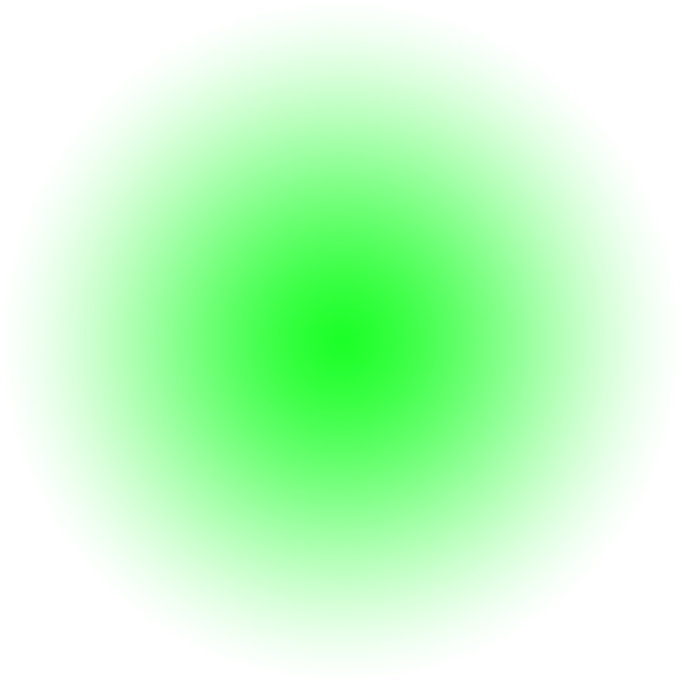
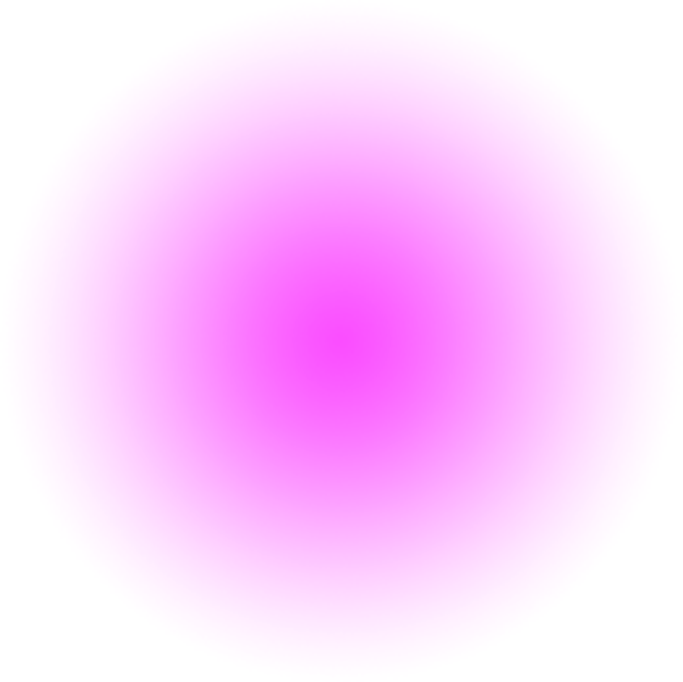
Added opacity change on glow

diff --git a/src/client/reducers/game.js b/src/client/reducers/game.js
@@ -47,6 +47,8 @@ const initialState = {
     y: null
   },
 
+  glowOpacity: 0,
+
   gliphIndex: 0,
 
   corners: range(0, 4).map(number => ({
@@ -133,15 +135,20 @@ const boxPhase = (state, action) => {
   }
 };
 
-const reachedGliph = (state) => {
+const gliphDistance = (state) => {
   const { glowCoords, gliphIndex } = state;
 
-  const isGliphReached = Math.sqrt(
+  return Math.sqrt(
     Math.pow(glowCoords.x - gliphCoords[gliphIndex].x, 2) +
     Math.pow(glowCoords.y - gliphCoords[gliphIndex].y, 2)
-  ) < 100;
+  );
+};
 
-  const collectedAllGliphs = reachedGliph &&
+const reachedGliph = (state) => {
+  const { gliphIndex } = state;
+  const isGliphReached = gliphDistance(state) < 25;
+
+  const collectedAllGliphs = isGliphReached &&
     gliphIndex === gliphCoords.length - 1;
 
   return {
@@ -150,6 +157,10 @@ const reachedGliph = (state) => {
     phase: collectedAllGliphs ? phases.CATCH : state.phase,
     gliphIndex: isGliphReached ? state.gliphIndex + 1 : state.gliphIndex,
   };
+};
+
+const getGlowOpacity = (state) => {
+  return (400 - gliphDistance(state)) / 400;
 };
 
 const soundPhase = (state, action) => {
@@ -162,6 +173,7 @@ const soundPhase = (state, action) => {
           return reachedGliph({
             ...state,
             glowCoords: clone(coords),
+            glowOpacity: getGlowOpacity(state),
           });
 
         default:

diff --git a/src/client/components/App/App.js b/src/client/components/App/App.js
@@ -26,6 +26,8 @@ class App extends Component {
     smashClicks: PropTypes.number.isRequired,
     inventory: PropTypes.array.isRequired,
     glowCoords: PropTypes.object.isRequired,
+    glowOpacity: PropTypes.number.isRequired,
+    gliphIndex: PropTypes.number.isRequired,
   }
 
   click(options, e) {
@@ -55,7 +57,9 @@ class App extends Component {
       corners,
       smashClicks,
       boxCenterClicked,
-      glowCoords
+      glowCoords,
+      glowOpacity,
+      gliphIndex,
     } = this.props;
 
     return (
@@ -104,6 +108,8 @@ class App extends Component {
                 style = {{
                   left: glowCoords.x,
                   top: glowCoords.y,
+                  opacity: glowOpacity,
+                  backgroundImage: `url(${require(`./box/glow-0${gliphIndex + 1}.png`)})`
                 }}
               />
             }
@@ -181,6 +187,8 @@ export default connect(
     phase: state.phase,
     smashClicks: state.smashClicks,
     glowCoords: state.glowCoords,
+    glowOpacity: state.glowOpacity,
+    gliphIndex: state.gliphIndex,
     inventory: state.inventory,
     boxCenterClicked: state.boxCenterClicked,
   }),

diff --git a/src/client/components/App/App.scss b/src/client/components/App/App.scss
@@ -79,7 +79,6 @@ button {
 }
 
 .glow {
-  background-image: url("./box/glow-01.png");
   background-repeat: no-repeat;
   background-size: $box-size;
 
